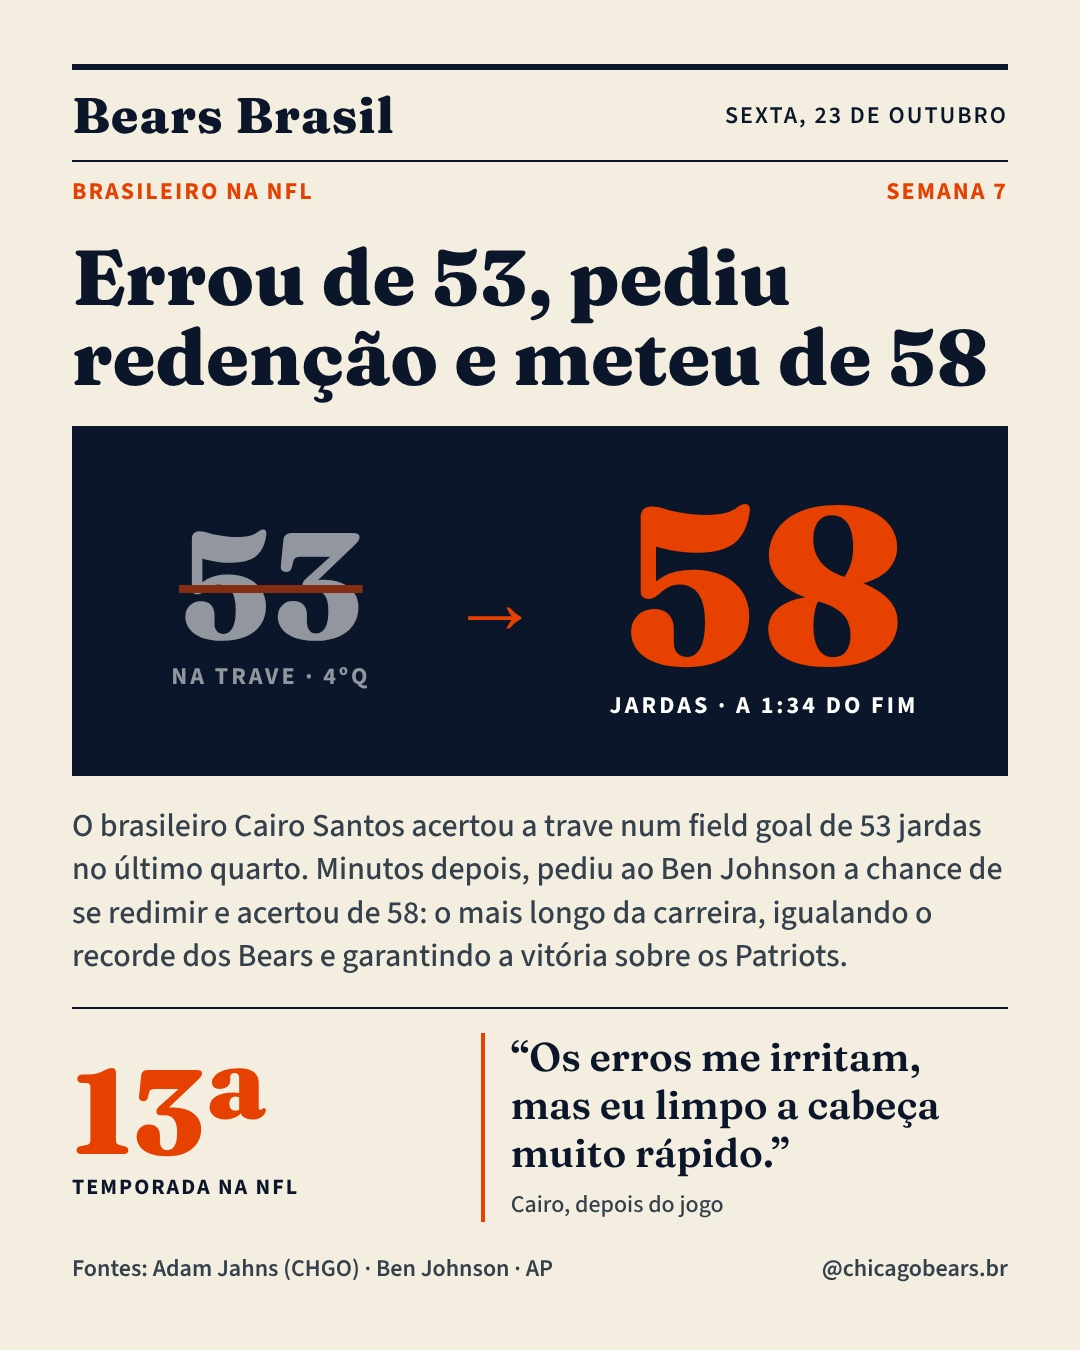
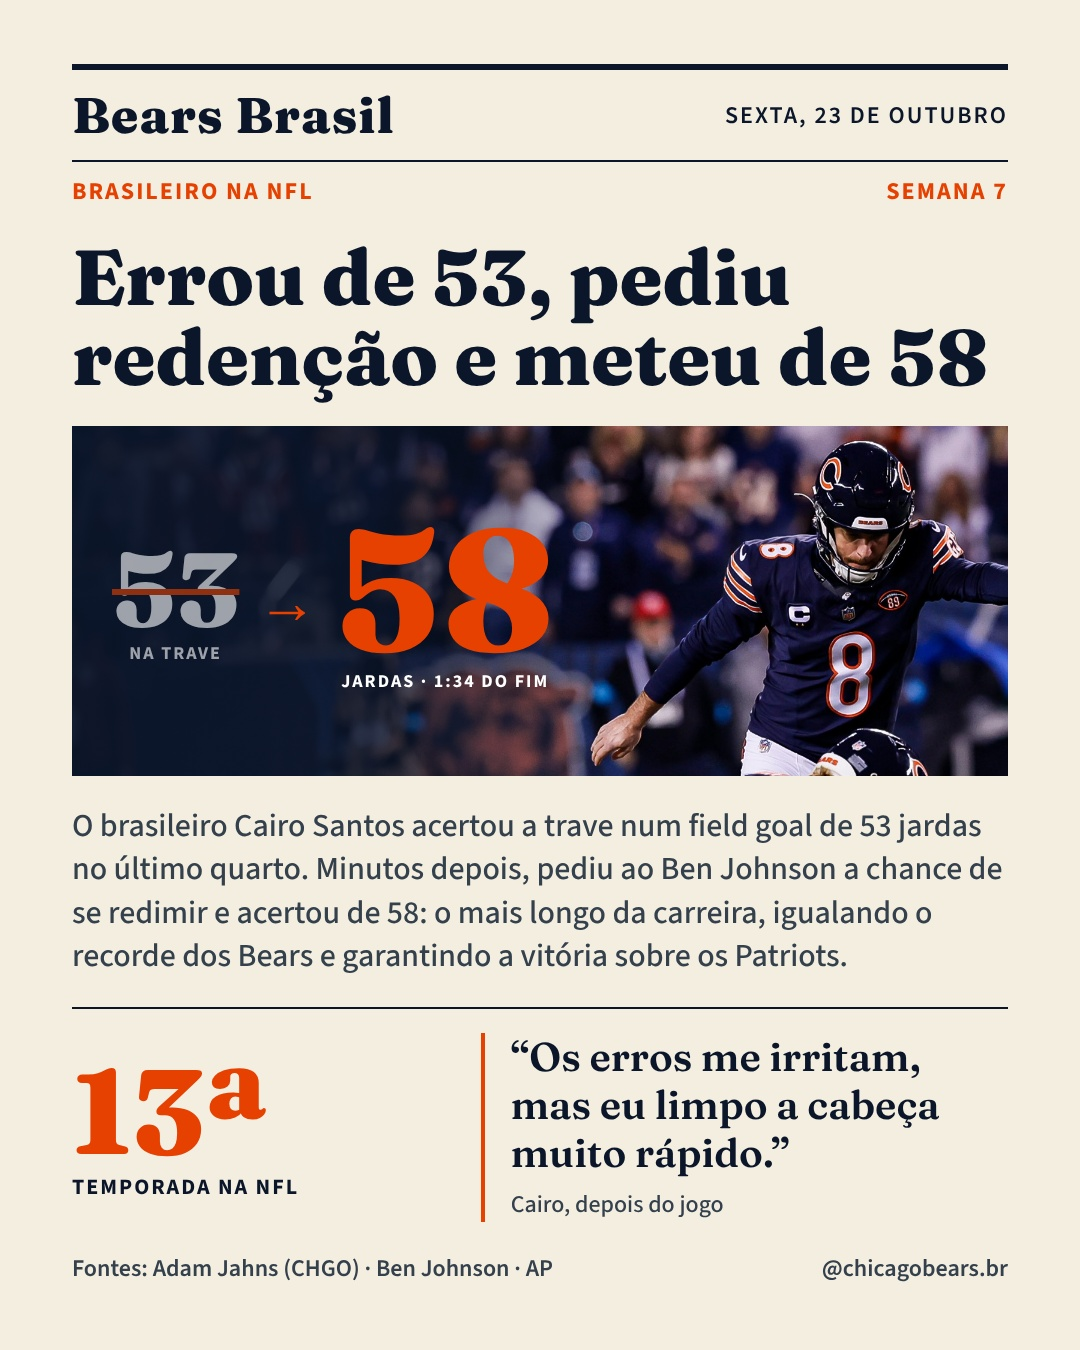
Fotos do Cairo e do Kmet nos cards; manual: como baixar fotos oficiais
Claude-Session: https://claude.ai/code/session_011AAg67PXPeFyUEzwW3JPb7

Changed region(s): [[0.0917, 0.3111, 0.9472, 0.5911]]

diff --git a/posts/2026-10-23/2030-cairo-santos-redencao/src/1.dc.html b/posts/2026-10-23/2030-cairo-santos-redencao/src/1.dc.html
@@ -25,10 +25,14 @@ body{margin:0}
 
 <h1 style="margin: 0; font-family: 'Fraunces', serif; font-weight: 800; font-size: 78px; line-height: 1.02">Errou de 53, pediu<br>redenção e meteu de 58</h1>
 
-<div style="height: 350px; background: #0B162A; color: #FFFFFF; box-sizing: border-box; padding: 30px 48px; display: grid; grid-template-columns: minmax(0, 1fr) auto minmax(0, 1.3fr); align-items: center; gap: 28px">
-<div style="display: flex; flex-direction: column; align-items: center; opacity: 0.55"><span style="font-family: 'Fraunces', serif; font-weight: 800; font-size: 150px; line-height: 1; text-decoration: line-through; text-decoration-thickness: 8px; text-decoration-color: #E64100">53</span><span style="font-weight: 700; font-size: 24px; letter-spacing: 3px">NA TRAVE · 4ºQ</span></div>
-<span style="font-family: 'Fraunces', serif; font-weight: 800; font-size: 90px; line-height: 1; color: #E64100">→</span>
-<div style="display: flex; flex-direction: column; align-items: center"><span style="font-family: 'Fraunces', serif; font-weight: 800; font-size: 220px; line-height: 0.95; color: #E64100">58</span><span style="font-weight: 700; font-size: 24px; letter-spacing: 3px">JARDAS · A 1:34 DO FIM</span></div>
+<div style="position: relative; height: 350px; background: #0B162A; color: #FFFFFF; overflow: hidden">
+<img src="/_blob/b5643e40b144d5bd0ad365ca54deb1de" alt="Cairo Santos chutando o field goal contra os Patriots" style="position: absolute; inset: 0; width: 100%; height: 100%; object-fit: cover; object-position: 80% 30%; display: block">
+<div style="position: absolute; inset: 0; background: linear-gradient(90deg, rgba(11,22,42,0.95) 0%, rgba(11,22,42,0.85) 32%, rgba(11,22,42,0) 58%)"></div>
+<div style="position: absolute; left: 40px; top: 0; bottom: 0; display: flex; align-items: center; gap: 18px">
+<div style="display: flex; flex-direction: column; align-items: center; opacity: 0.6"><span style="font-family: 'Fraunces', serif; font-weight: 800; font-size: 104px; line-height: 1; text-decoration: line-through; text-decoration-thickness: 6px; text-decoration-color: #E64100">53</span><span style="font-weight: 700; font-size: 18px; letter-spacing: 2px">NA TRAVE</span></div>
+<span style="font-family: 'Fraunces', serif; font-weight: 800; font-size: 60px; line-height: 1; color: #E64100">→</span>
+<div style="display: flex; flex-direction: column; align-items: center"><span style="font-family: 'Fraunces', serif; font-weight: 800; font-size: 170px; line-height: 0.95; color: #E64100">58</span><span style="font-weight: 700; font-size: 18px; letter-spacing: 2px">JARDAS · 1:34 DO FIM</span></div>
+</div>
 </div>
 
 <p style="margin: 0; font-weight: 500; font-size: 32px; line-height: 1.35; color: #34414D">O brasileiro Cairo Santos acertou a trave num field goal de 53 jardas no último quarto. Minutos depois, pediu ao Ben Johnson a chance de se redimir e acertou de 58: o mais longo da carreira, igualando o recorde dos Bears e garantindo a vitória sobre os Patriots.</p>

diff --git a/posts/2026-10-23/1500-kmet-lesao/src/1.dc.html b/posts/2026-10-23/1500-kmet-lesao/src/1.dc.html
@@ -28,9 +28,7 @@ body{margin:0}
 
 <h1 style="margin: 0; font-family: 'Fraunces', serif; font-weight: 800; font-size: 86px; line-height: 1.02">Kmet sai de carrinho, e Ben Johnson teme o pior</h1>
 
-<div style="height: 340px; border: 4px dashed rgba(11,22,42,0.4); background: rgba(11,22,42,0.06); padding: 18px; box-sizing: border-box">
-<span style="font-weight: 600; font-size: 24px; letter-spacing: 2px; color: #4A5562">[FOTO HORIZONTAL LARGA ~2,7:1 · mín. 1900×700 · Cole Kmet em campo]</span>
-</div>
+<div style="height: 340px; overflow: hidden; background: #0B162A"><img src="/_blob/f46fa6a28a13aa7d22f6f51dfc1165ce" alt="Cole Kmet com a bola no Soldier Field" style="width: 100%; height: 100%; object-fit: cover; object-position: 30% 25%; display: block"></div>
 
 <p style="margin: 0; font-weight: 500; font-size: 31px; line-height: 1.35; color: #34414D">O tight end machucou o joelho direito numa recepção a 5:34 do fim e saiu de campo de carrinho, com a perna imobilizada. Os Bears esperam ter mais informações nesta sexta.</p>
 

diff --git a/CLAUDE.md b/CLAUDE.md
@@ -25,7 +25,8 @@ Toda execução agendada começa lendo este arquivo. Escreva tudo para o Victor 
 - As execuções rodam na nuvem, sem o computador do Victor. Tente baixar a foto (galerias oficiais, via TinyFish se o download direto falhar).
 - Sem foto boa: use um molde sem foto (B-noticia, B-rumor, C) ou mande o post com a pergunta "tem uma foto que você queira usar?". Nunca trave a pauta por causa de foto.
 - **Post de jogador precisa de foto do jogador** (Victor, 23/10). Card só com gráfico, sem foto, não serve como versão final. Se não der para baixar, mande o post marcado como "falta foto" e avise exatamente o que bloqueou.
-- Bloqueio conhecido (23/10): a nuvem não acessa `chicagobears.com` nem `static.clubs.nfl.com`. O `fetch_content` do TinyFish lê as páginas, mas não baixa imagens. Não use automação "stealth" nem outros desvios. Até o Victor liberar esses domínios ou mandar a foto, peça a foto para ele.
+- Acesso à rede: liberado para todos os domínios (23/10). Fotos da galeria em tamanho cheio: `https://static.clubs.nfl.com/image/upload/bears/<id>.jpg`. Os ids saem do `fetch_content` (image_links) da página da galeria. Foto do perfil do jogador: `chicagobears.com/team/players-roster/<nome>/`, versão grande em `.../image/private/f_auto/bears/<id>.jpg`. Para achar o jogador, monte uma folha de contato e olhe as fotos (as galerias não têm legenda).
+- Corte o adversário fora da foto (regra "sem foto do adversário"). Registre cada foto nova em `assets/blobs.json` (md5 → caminho).
 
 ## Horários
 - Execuções: ~7h30, 11h30 e 17h (horário de Brasília).
